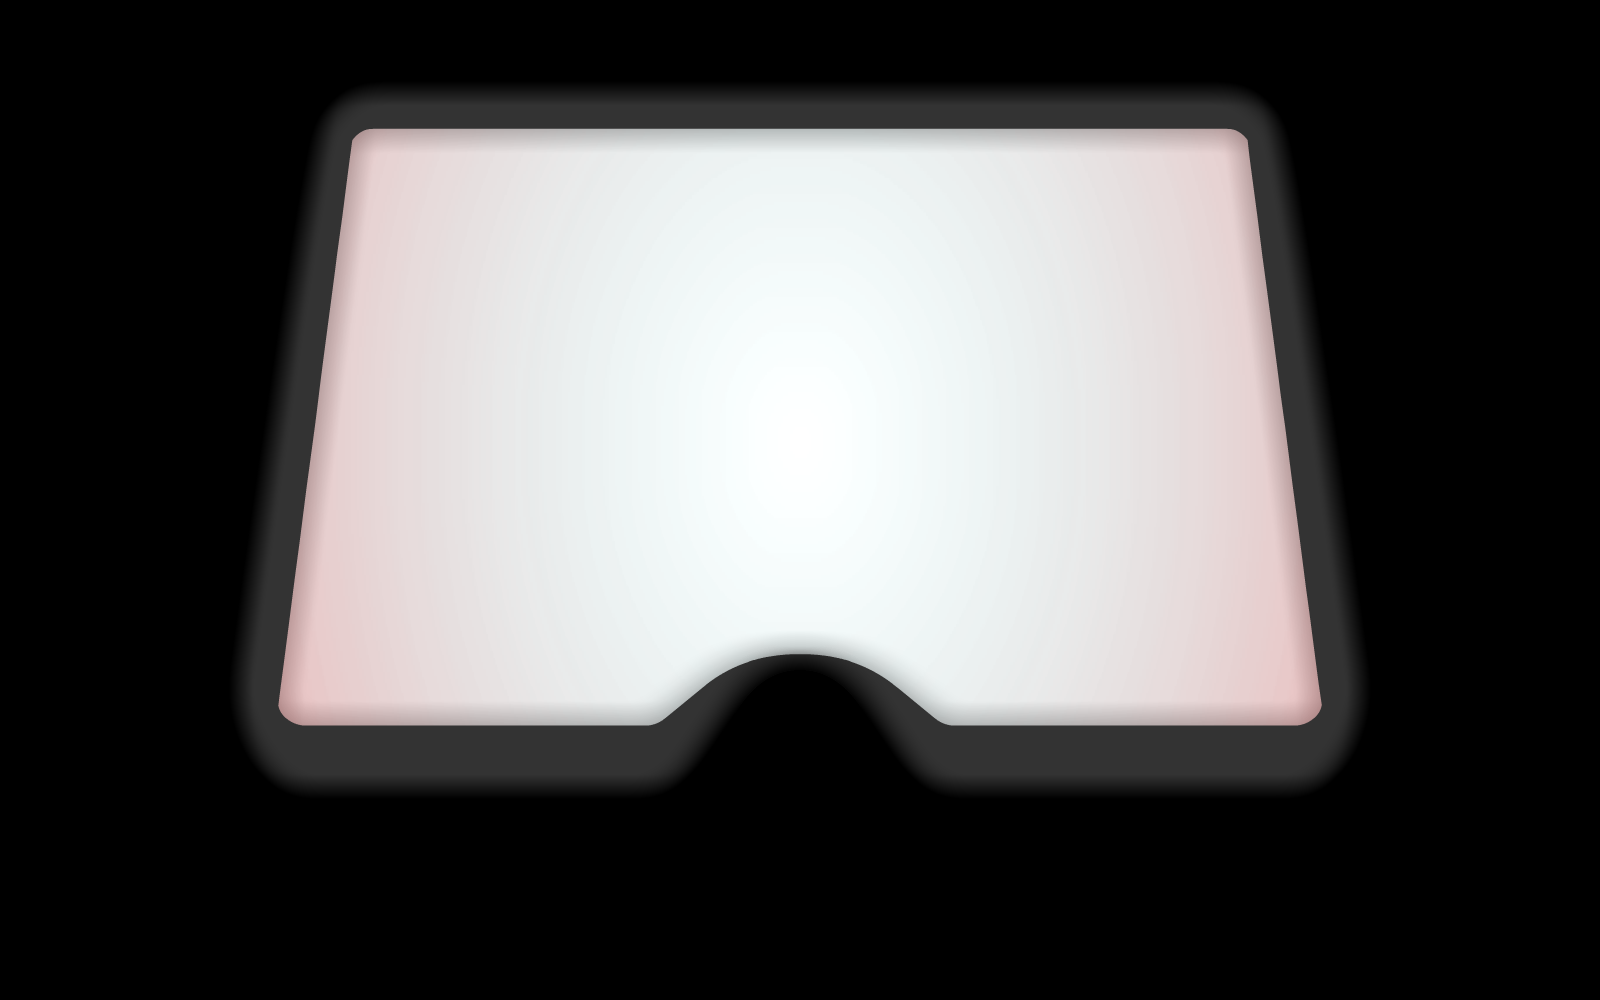
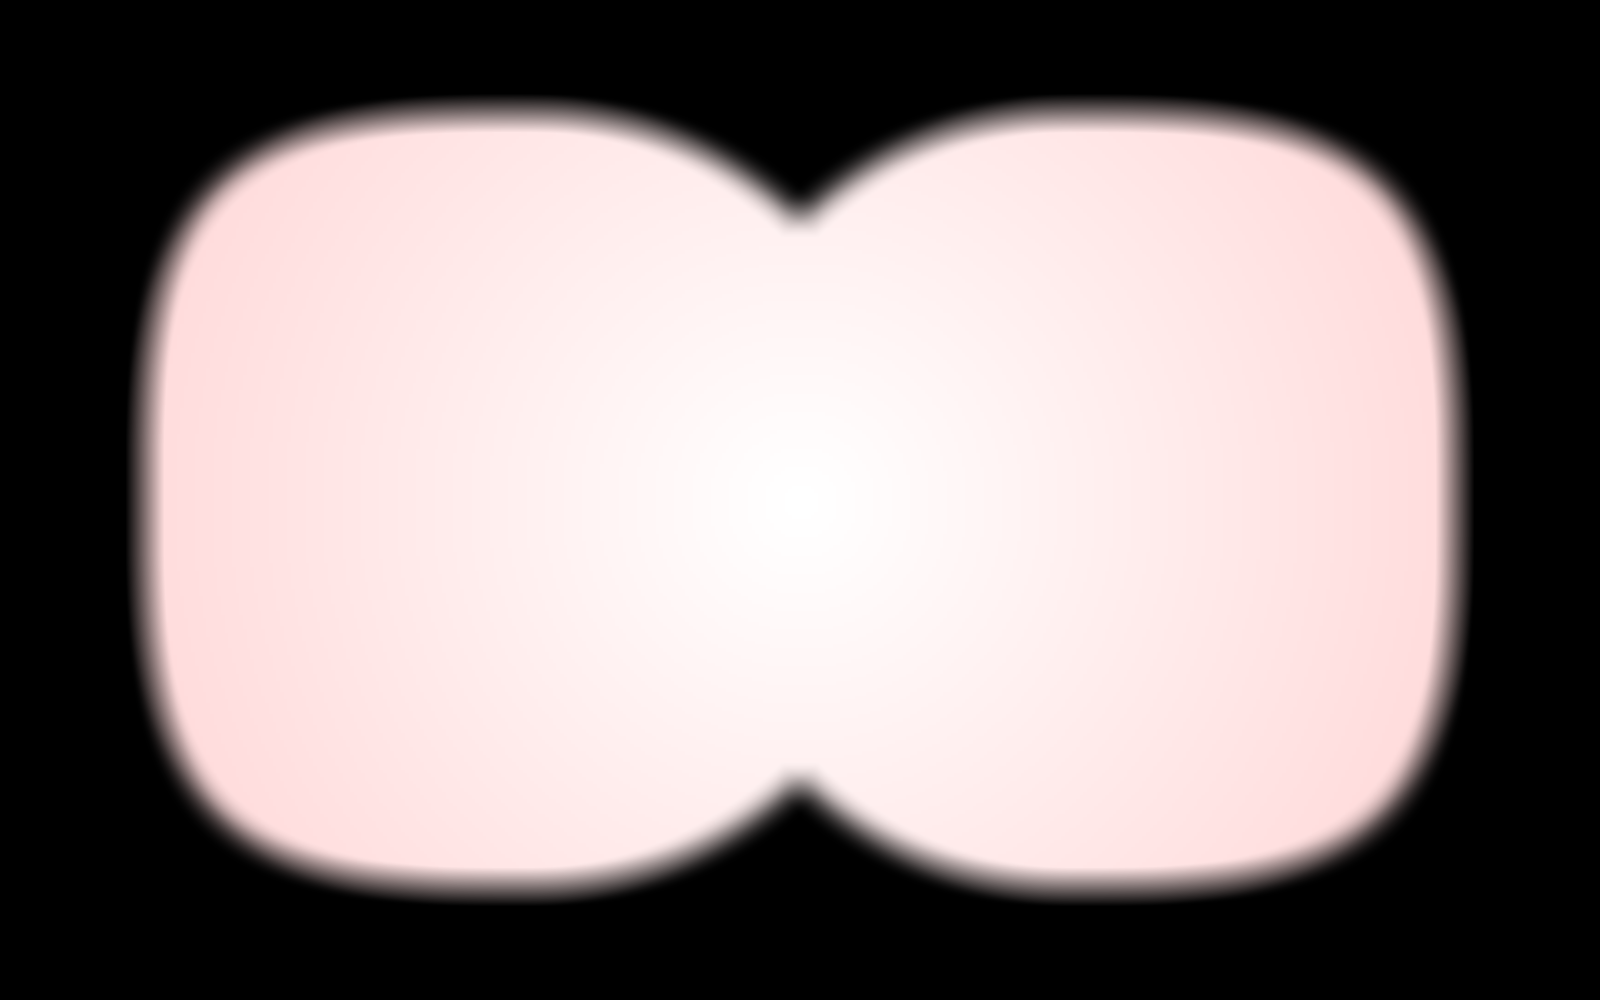
Better goggles

diff --git a/proto/js/bat-heist-3D.js b/proto/js/bat-heist-3D.js
@@ -544,7 +544,7 @@ BatHeistArena = function(layout){
 				
 
 				let amt = reticules[r].cntThrow/FPTHROW;
-				let yBottom = BatHeist.H/1.2 - layout.y;
+				let yBottom = BatHeist.H/1.2 - layout.y - 70;
 				let yDif = yBottom-((reticules[r].ry+0.5) * BatHeist.GRIDSIZE);
 				let y = yBottom - yDif*amt;
 				let xStart = BatHeist.ARENA.W/2 + (r==0?-1:1)*200;
@@ -568,7 +568,7 @@ BatHeistArena = function(layout){
 				reticules[r].$projectile.css({
 					left:xStart + xDif*amt,
 					top:y, 
-					transform: `rotate(${degs-90}deg) scale(${2-amt})`,
+					transform: `rotate(${degs/4-20}deg) scale(${2-amt})`,
 					opacity: reticules[r].isArmed?1:0,
 
 				});
@@ -732,7 +732,7 @@ BatHeist3DGame = function(){
 			heistgame.focus heistwall.focus heistgoggles{
 				background: url(./proto/img/bat-goggles.png);
 				background-size: cover;
-				z-index: -1;
+				
 			}
 
 			heistwall heistwallstage{
@@ -832,6 +832,7 @@ BatHeist3DGame = function(){
 				transform-origin: top center;
 				opacity: 0;
 				pointer-events: none;
+				display: none;
 			}
 
 			heistarrow:last-of-type{
@@ -953,35 +954,7 @@ BatHeist3DGame = function(){
 				transition: all 0.5s;
 			}
 
-			/*heistarena:before{
-				content:"";
-				display:block;
-				position:absolute;
-				left:0px;
-				top:0px;
-				bottom:0px;
-				width:10%;
-				border: 5px solid white;
-				border-right: none;
-
-				display:none;
-				z-index: 2;
-			}
-
-			heistarena:after{
-				content:"";
-				display:block;
-				position:absolute;
-				right:0px;
-				top:0px;
-				bottom:0px;
-				width:10%;
-				border: 5px solid white;
-				border-left: none;
-
-				display:none;
-				z-index: 2;
-			}*/
+			
 
 			heistinfo{
 				display:block;
@@ -1208,7 +1181,6 @@ BatHeist3DGame = function(){
 
 			heistgame.focus heistoverlay{
 				opacity:1;
-				/*display: block;*/
 				z-index: 2;
 			}
 
@@ -1228,8 +1200,8 @@ BatHeist3DGame = function(){
 			heistreset{
 				display: block;
 				position: absolute;
-				top: 120px;
-				left: 350px;
+				top: 150px;
+				left: 370px;
 				width: 120px;
 				height: 120px;
 				
@@ -1244,8 +1216,8 @@ BatHeist3DGame = function(){
 			heisttoggle{
 				display: block;
 				position: absolute;
-				top: 130px;
-				right: 340px;
+				top: 150px;
+				right: 370px;
 				width: 120px;
 				height: 120px;
 				background: no-repeat center url(./proto/img/zoom-out.svg);
@@ -1355,8 +1327,9 @@ BatHeist3DGame = function(){
 		$walls[i] = $w;
 		$stages[i] = $s;
 
-		$('<heistgoggles>').appendTo($w);
+		
 		$('<heistreset>').appendTo($w).click(onResetArena);
+		$('<heistgoggles>').appendTo($w);
 		$('<heisttoggle>').appendTo($w).click(unfocus);
 		$('<heistinfo class="left">').appendTo($w).text('left');
 		$('<heistinfo class="right">').appendTo($w).text('right');
@@ -1504,6 +1477,8 @@ BatHeist3DGame = function(){
 			players[0].pz = (1 - y)*100;
 		}
 		
+		players[1].px = players[0].px;
+		players[1].pz = players[0].pz;
 
 		
 		players[0].proximity = [0.9,0.9,0.9];
